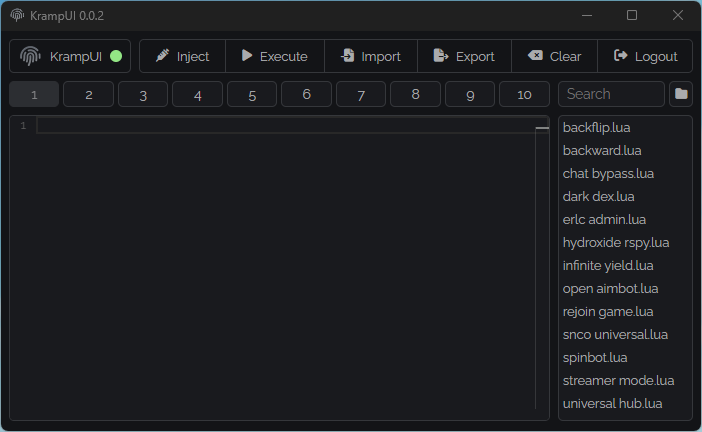
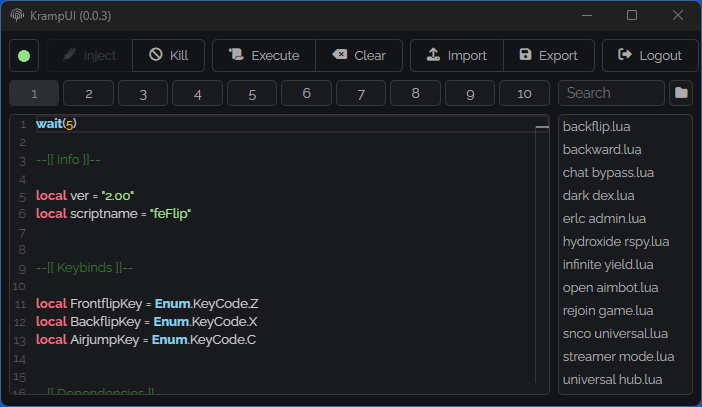
0.0.3

diff --git a/src/index.html b/src/index.html
@@ -24,18 +24,19 @@
     <div class="exploit">
       <div class="bar">
         <div class="title">
-          <img class="image" src="./assets/icon.png">
-          <p class="text">KrampUI</p>
           <div class="indicator"></div>
         </div>
         <div class="buttons">
           <button class="kr-button kr-inject disabled"><i class="fa-solid fa-syringe"></i> <span class="text">Inject</span></button>
-          <button class="kr-button kr-execute disabled"><i class="fa-solid fa-scroll"></i> <span class="text">Execute</span></button>
-          <button class="kr-button kr-import"><i class="fa-solid fa-upload"></i> <span class="text">Import</span></button>
-          <button class="kr-button kr-export"><i class="fa-solid fa-floppy-disk"></i> <span class="text">Export</span></button>
-          <button class="kr-button kr-clear"><i class="fa-solid fa-delete-left"></i> <span class="text">Clear</span></button>
-          <button class="kr-button kr-kill"><i class="fa-solid fa-ban"></i> <span class="text">Kill</span></button>
-          <button class="kr-button kr-logout"><i class="fa-solid fa-right-from-bracket"></i> <span class="text">Logout</span></button>
+          <button class="kr-button kr-kill before-seperator"><i class="fa-solid fa-ban"></i> <span class="text">Kill</span></button>
+          <div class="seperator"></div>
+          <button class="kr-button kr-execute after-seperator disabled"><i class="fa-solid fa-scroll"></i> <span class="text">Execute</span></button>
+          <button class="kr-button kr-clear before-seperator"><i class="fa-solid fa-delete-left"></i> <span class="text">Clear</span></button>
+          <div class="seperator"></div>
+          <button class="kr-button kr-import after-seperator"><i class="fa-solid fa-upload"></i> <span class="text">Import</span></button>
+          <button class="kr-button kr-export before-seperator"><i class="fa-solid fa-floppy-disk"></i> <span class="text">Export</span></button>
+          <div class="seperator"></div>
+          <button class="kr-button kr-logout after-seperator"><i class="fa-solid fa-right-from-bracket"></i> <span class="text">Logout</span></button>
         </div>
       </div>
       <div class="main">

diff --git a/src/assets/styles.css b/src/assets/styles.css
@@ -146,7 +146,7 @@ body > *:not(.active) {
 
 .exploit .bar .title {
     display: flex;
-    border: 1px solid var(--lighter);
+    border: 0.5px solid var(--lighter);
     padding: 0.25rem 0.5rem;
     box-sizing: border-box;
     width: fit-content;
@@ -155,14 +155,6 @@ body > *:not(.active) {
     align-items: center;
     user-select: none;
     -webkit-user-drag: none;
-}
-
-.exploit .bar .title .text {
-    font-size: 0.8rem;
-}
-
-.exploit .bar .title .image {
-    width: 1.5rem;
 }
 
 .exploit .bar .title .indicator {
@@ -174,14 +166,13 @@ body > *:not(.active) {
 
 .exploit .bar .buttons {
     display: flex;
-    border: 1px solid var(--lighter);
-    border-radius: 5px;
-    overflow: hidden;
-    box-sizing: border-box;
     width: 100%;
 }
 
 .exploit .bar .buttons .kr-button {
+    margin-left: -1px;
+    border: 0.25px solid var(--lighter);
+    box-sizing: border-box;
     background-color: var(--dark);
     font-size: 0.8rem;
     display: flex;
@@ -191,7 +182,7 @@ body > *:not(.active) {
     gap: 0.5rem;
 }
 
-@media only screen and (max-width: 799px) {
+@media only screen and (max-width: 699px) {
     .exploit .bar .buttons .kr-button .text {
         display: none;
     }
@@ -205,10 +196,6 @@ body > *:not(.active) {
     border-radius: 0;
 }
 
-.exploit .bar .buttons .kr-button:not(:last-child) {
-    border-right: 1px solid var(--lighter);
-}
-
 .exploit .bar .buttons .kr-button:first-child {
     border-top-right-radius: 0;
     border-bottom-right-radius: 0;
@@ -217,6 +204,20 @@ body > *:not(.active) {
 .exploit .bar .buttons .kr-button:last-child {
     border-top-left-radius: 0;
     border-bottom-left-radius: 0;
+}
+
+.exploit .bar .buttons .seperator {
+    padding: 0.25rem;
+}
+
+.exploit .bar .buttons .after-seperator {
+    border-top-left-radius: 5px !important;
+    border-bottom-left-radius: 5px !important;
+}
+
+.exploit .bar .buttons .before-seperator {
+    border-top-right-radius: 5px !important;
+    border-bottom-right-radius: 5px !important;
 }
 
 .exploit > .main {
